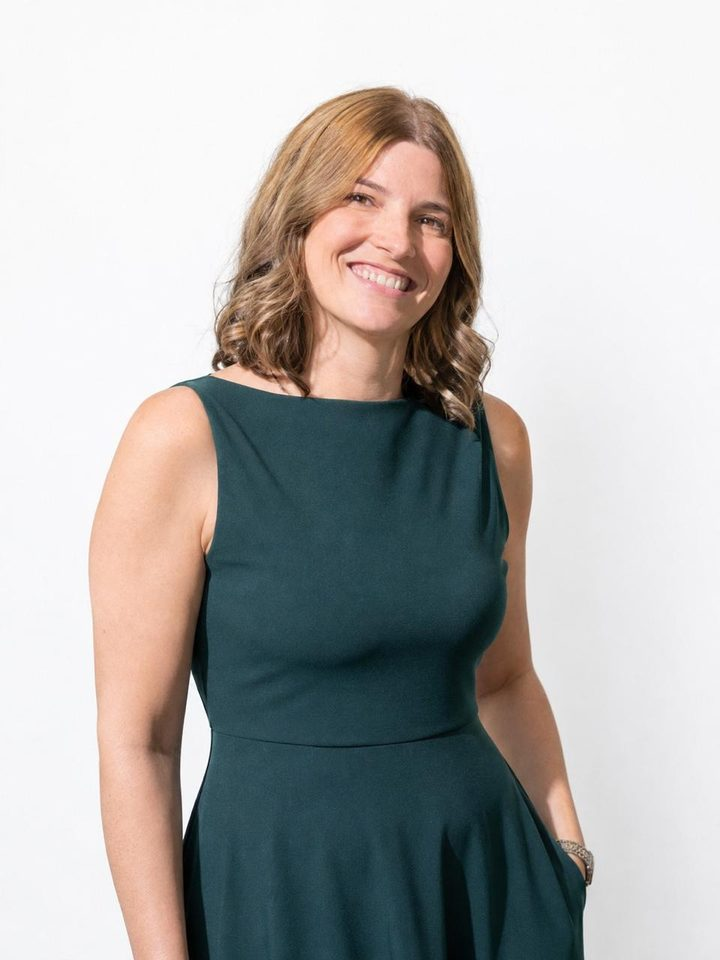
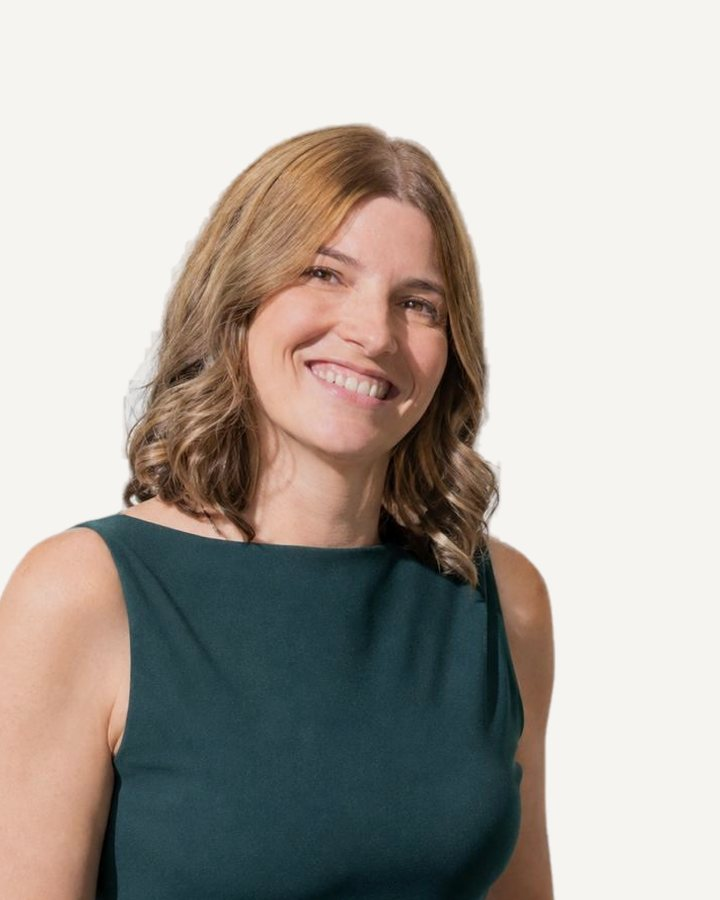
Review: animations, testimonials carousel, uniform team photos

diff --git a/src/trust.js b/src/trust.js
@@ -106,16 +106,70 @@ if (/[?&]preview\b/.test(location.search)) {
     var sec = document.querySelector('[data-stories]');
     var grid = document.querySelector('[data-story-grid]');
     if (sec && grid && stories.length) {
-      grid.innerHTML = stories.map(function (s) {
+      var slide = function (s, i) {
         var media = s.video
           ? '<video class="story-video" src="' + esc(s.video) + '"' + (s.photo ? ' poster="' + esc(s.photo) + '"' : '') + ' controls playsinline preload="none"></video>'
           : (s.photo ? '<img src="' + esc(s.photo) + '" alt="" loading="lazy">' : '');
-        return '<article class="story' + (s.video ? ' has-video' : '') + '">' + media +
+        return '<article class="story' + (s.video ? ' has-video' : '') + '" role="group" aria-roledescription="testemunho" aria-label="' + (i + 1) + ' de ' + stories.length + '">' + media +
           (s.situation || s.place ? '<p class="story-sit">' + esc(s.situation || '') + (s.situation && s.place ? ' · ' : '') + esc(s.place || '') + '</p>' : '') +
           (s.quote ? '<blockquote>' + esc(s.quote) + '</blockquote>' : '') +
           '<p class="story-name">' + esc(s.name || '') + '</p>' +
           (s.solved ? '<p class="story-solved">' + esc(s.solved) + '</p>' : '') + '</article>';
-      }).join('');
+      };
+      if (stories.length < 2) {
+        grid.innerHTML = stories.map(slide).join('');
+      } else {
+        // A carousel: one testimonial at a time, swipe or arrows, dots to jump,
+        // and it moves on by itself every 8 seconds unless the visitor is
+        // reading (hover, focus, touch) or has asked for less motion.
+        grid.className = 'story-carousel';
+        grid.setAttribute('role', 'region');
+        grid.setAttribute('aria-roledescription', 'carrossel');
+        grid.setAttribute('aria-label', 'Testemunhos de clientes');
+        grid.innerHTML = '<div class="story-track" tabindex="0">' + stories.map(slide).join('') + '</div>' +
+          '<div class="story-nav">' +
+            '<button type="button" class="story-btn" data-dir="-1" aria-label="Testemunho anterior">‹</button>' +
+            '<div class="story-dots">' + stories.map(function (_, i) { return '<button type="button" class="story-dot" data-i="' + i + '" aria-label="Ver o testemunho ' + (i + 1) + '"></button>'; }).join('') + '</div>' +
+            '<button type="button" class="story-btn" data-dir="1" aria-label="Testemunho seguinte">›</button>' +
+          '</div>';
+        var track = grid.querySelector('.story-track');
+        var dots = grid.querySelectorAll('.story-dot');
+        var at = 0;
+        var go = function (i, smooth) {
+          at = (i + stories.length) % stories.length;
+          track.scrollTo({ left: track.clientWidth * at, behavior: smooth === false ? 'auto' : 'smooth' });
+          mark();
+        };
+        var mark = function () { Array.prototype.forEach.call(dots, function (d, k) { d.setAttribute('aria-current', k === at ? 'true' : 'false'); }); };
+        grid.addEventListener('click', function (e) {
+          var b = e.target.closest('.story-btn'); if (b) { go(at + Number(b.getAttribute('data-dir'))); stop(); return; }
+          var d = e.target.closest('.story-dot'); if (d) { go(Number(d.getAttribute('data-i'))); stop(); }
+        });
+        var t0 = null;
+        track.addEventListener('scroll', function () {
+          clearTimeout(t0);
+          t0 = setTimeout(function () { var i = Math.round(track.scrollLeft / Math.max(1, track.clientWidth)); if (i !== at) { at = i; mark(); } }, 80);
+        }, { passive: true });
+        track.addEventListener('keydown', function (e) {
+          if (e.key === 'ArrowRight') { e.preventDefault(); go(at + 1); stop(); }
+          if (e.key === 'ArrowLeft') { e.preventDefault(); go(at - 1); stop(); }
+        });
+        addEventListener('resize', function () { go(at, false); });
+        var calm = window.matchMedia && matchMedia('(prefers-reduced-motion: reduce)').matches;
+        var timer = null, held = false;
+        var play = function () { if (calm || timer) return; timer = setInterval(function () { if (!held && !document.hidden) go(at + 1); }, 8000); };
+        var stop = function () { clearInterval(timer); timer = null; };
+        grid.addEventListener('mouseenter', function () { held = true; });
+        grid.addEventListener('mouseleave', function () { held = false; });
+        grid.addEventListener('focusin', function () { held = true; });
+        grid.addEventListener('focusout', function () { held = false; });
+        track.addEventListener('pointerdown', stop);
+        mark();
+        // Start moving only once it is on screen.
+        if ('IntersectionObserver' in window) {
+          new IntersectionObserver(function (es, o) { if (es[0].isIntersecting) { play(); o.disconnect(); } }, { threshold: 0.4 }).observe(grid);
+        } else play();
+      }
       sec.hidden = false;
     }
   });

diff --git a/src/anim.js b/src/anim.js
@@ -1,0 +1,56 @@
+/*
+ * Gentle motion: sections and cards fade up a little the first time they
+ * come into view, one after the other within a group. Nothing moves for
+ * visitors who ask for less motion, and without this script everything is
+ * simply there (the hiding class is only added here).
+ */
+(function () {
+  'use strict';
+  if (!('IntersectionObserver' in window)) return;
+  if (window.matchMedia && matchMedia('(prefers-reduced-motion: reduce)').matches) return;
+  var SEL = [
+    '.hero-copy > *', '.form-card', '.assure-in > p',
+    '.section-title', '.section-sub', '.time-chart', '.cmp-table-wrap', '.cmp-cta',
+    '.how-photos img', '.steps li', '.footnote', '.case-grid article',
+    '.about-copy > *', '.values li', '.about-facts', '.team-intro > *', '.member',
+    '.story-carousel', '.book-copy > *', '.book-steps li', '.faq details',
+    '.partner-logo', '.partner-copy > *', '.final-in > *',
+  ].join(',');
+  function ready(fn) { if (document.readyState === 'loading') document.addEventListener('DOMContentLoaded', fn); else fn(); }
+  ready(function () {
+    var els = Array.prototype.slice.call(document.querySelectorAll(SEL)).filter(function (el) { return !el.closest('[hidden]'); });
+    if (!els.length) return;
+    document.documentElement.classList.add('anim');
+    var io = new IntersectionObserver(function (entries) {
+      entries.forEach(function (e) {
+        if (!e.isIntersecting) return;
+        e.target.classList.add('is-in');
+        io.unobserve(e.target);
+      });
+    }, { rootMargin: '0px 0px -8% 0px', threshold: 0.08 });
+    els.forEach(function (el) {
+      // Siblings arrive one after another (at most 0.4 s apart in total).
+      var sibs = Array.prototype.filter.call(el.parentNode.children, function (c) { return c.matches(SEL); });
+      var k = sibs.indexOf(el);
+      el.style.setProperty('--d', Math.min(k, 5) * 70 + 'ms');
+      el.classList.add('reveal');
+      io.observe(el);
+    });
+    // A jump (a menu link, a fast fling) can pass a section without it ever
+    // touching the screen; anything already above the bottom edge shows.
+    var pending = els.slice(), tick = false;
+    function sweep() {
+      tick = false;
+      var h = window.innerHeight;
+      pending = pending.filter(function (el) {
+        if (el.classList.contains('is-in')) return false;
+        if (el.getBoundingClientRect().top < h) { el.classList.add('is-in'); io.unobserve(el); return false; }
+        return true;
+      });
+      if (!pending.length) window.removeEventListener('scroll', onScroll);
+    }
+    function onScroll() { if (!tick) { tick = true; requestAnimationFrame(sweep); } }
+    window.addEventListener('scroll', onScroll, { passive: true });
+    window.addEventListener('hashchange', onScroll);
+  });
+})();

diff --git a/src/styles.css b/src/styles.css
@@ -554,4 +554,30 @@ section { scroll-margin-top: 70px; }
 @media (max-width: 560px) { .team-grid { grid-template-columns: 1fr; max-width: 420px; } }
 .member img { width: 100%; height: auto; aspect-ratio: 4 / 5; object-fit: cover; object-position: 50% 8%; background: #fff; }
 .member figcaption small { display: block; margin-top: 4px; font-size: 12px; font-weight: 600; letter-spacing: .04em; color: var(--gold-deep); }
-.member figcaption p { font-style: italic; color: var(--ink-2); }
+.member figcaption p { color: var(--ink-2); }
+
+/* Gentle motion (anim.js): fade up once, staggered within a group. */
+html.anim .reveal { opacity: 0; transform: translateY(14px); transition: opacity .6s ease, transform .7s cubic-bezier(.2, .7, .2, 1); transition-delay: var(--d, 0ms); }
+html.anim .reveal.is-in { opacity: 1; transform: none; }
+.member img { transition: transform .6s cubic-bezier(.2, .7, .2, 1); }
+.member { overflow: hidden; }
+.member:hover img { transform: scale(1.03); }
+.btn { transition: background .15s, color .15s, border-color .15s, transform .15s; }
+.btn:hover { transform: translateY(-1px); }
+@media (prefers-reduced-motion: reduce) { .member img, .btn { transition: none; } .member:hover img, .btn:hover { transform: none; } }
+
+/* Testimonials as a carousel: one at a time, swipe, arrows and dots. */
+.story-carousel { max-width: 820px; }
+.story-track { display: flex; overflow-x: auto; scroll-snap-type: x mandatory; scrollbar-width: none; border-radius: var(--radius); }
+.story-track::-webkit-scrollbar { display: none; }
+.story-track:focus-visible { outline: 2px solid var(--gold); outline-offset: 4px; }
+.story-track .story { flex: 0 0 100%; scroll-snap-align: start; padding: 36px 40px; min-height: 260px; justify-content: center; }
+.story-track .story blockquote { font-size: clamp(19px, 2.1vw, 24px); line-height: 1.45; }
+.story-track .story blockquote::before { content: '“'; display: block; font-size: 64px; line-height: .6; color: var(--gold); margin-bottom: 10px; }
+.story-nav { display: flex; align-items: center; gap: 14px; margin-top: 18px; }
+.story-btn { width: 44px; height: 44px; border-radius: 50%; border: 1px solid var(--line); background: var(--paper); color: var(--ink); font-size: 24px; line-height: 1; cursor: pointer; transition: border-color .15s, background .15s; }
+.story-btn:hover { border-color: var(--ink); }
+.story-dots { display: flex; gap: 8px; }
+.story-dot { width: 10px; height: 10px; padding: 0; border-radius: 50%; border: 0; background: var(--line); cursor: pointer; transition: background .2s, transform .2s; }
+.story-dot[aria-current="true"] { background: var(--gold-deep); transform: scale(1.2); }
+@media (max-width: 560px) { .story-track .story { padding: 26px 22px; } }

diff --git a/src/index.html b/src/index.html
@@ -466,5 +466,6 @@
   <script src="site.js"></script>
   <script src="trust.js"></script>
   <script src="entrance.js"></script>
+  <script src="anim.js"></script>
 </body>
 </html>
